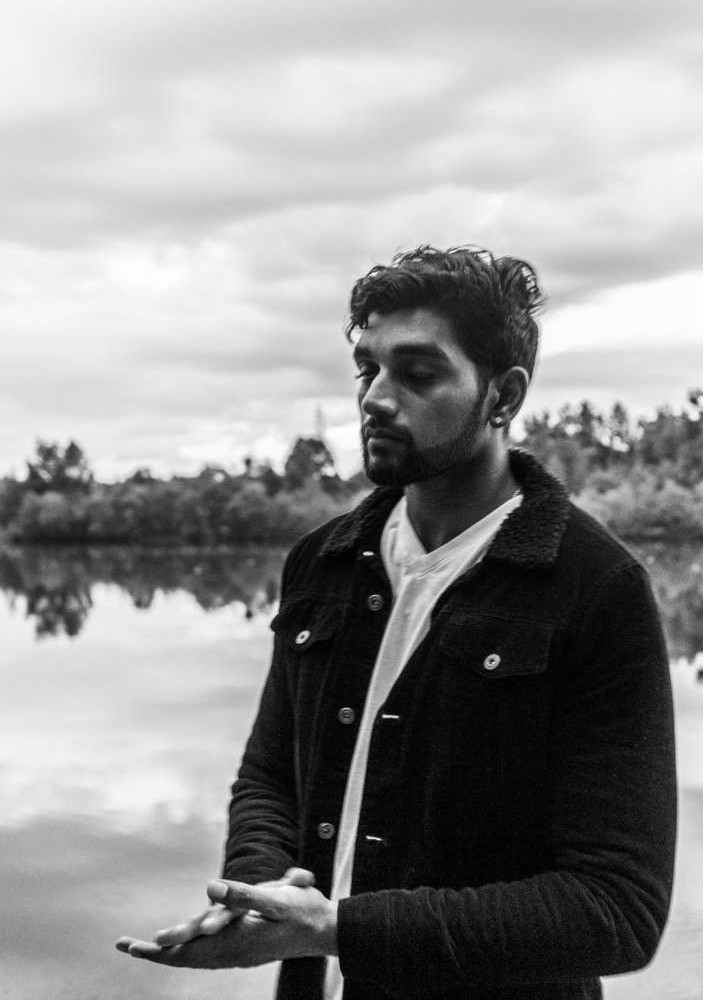
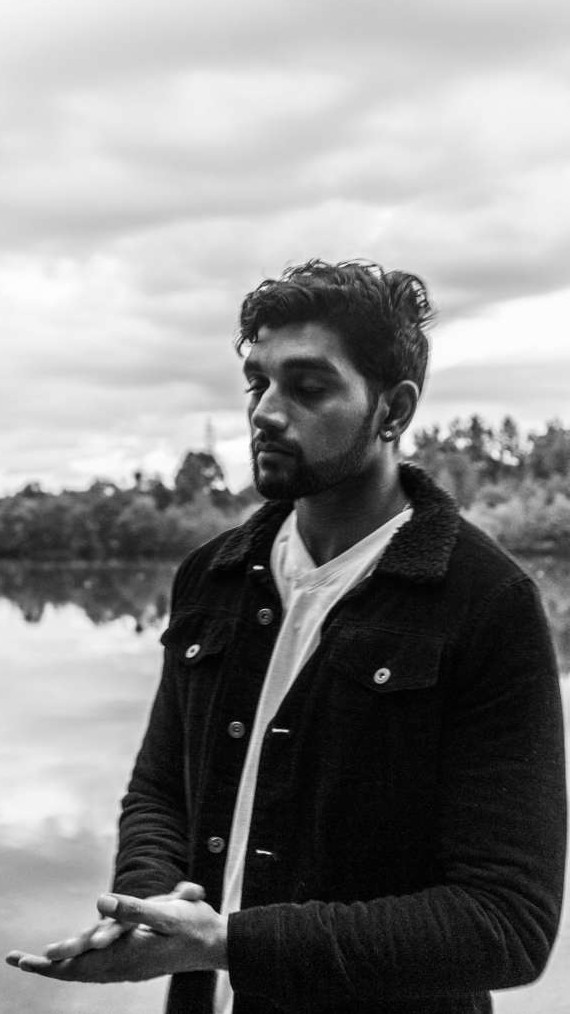
Make image extremely resizable

diff --git a/main.css b/main.css
@@ -1,3 +1,81 @@
-body {
-    background-color: lightgrey;
+* {
+    margin: 0;
+    padding: 0;
 }
+
+/* .background {
+        background-image: url('hero_image_landscape.jpg');
+        background-size: cover;
+        background-repeat: no-repeat;
+        height: 100vh;
+      
+} */
+@media (max-width: 299px) and (orientation:portrait) {
+    .background {
+        background-image: url('hero_image_portrait.jpg');
+        background-size: cover;
+        background-position: left;
+        background-repeat: no-repeat;
+        height: 100vh;
+      }
+
+} 
+
+
+@media (min-width: 300px) and (orientation:portrait){
+    .background {
+        background-image: url('hero_image_portrait.jpg');
+        background-size: cover;
+        background-position: left;
+        background-repeat: no-repeat;
+        height: 100vh;
+      }
+
+} 
+
+@media (min-width: 700px) and (orientation:portrait){
+    .background {
+        background-image: url('hero_image_tab.jpg');
+        background-size: cover;
+        background-position: left;
+        background-repeat: no-repeat;
+       
+      }
+
+}
+
+@media (max-width: 1179px) and (orientation:landscape) {
+    .background {
+        background-image: url('hero_image_landscape.jpg');
+        background-size: cover;
+        background-position: bottom;
+        background-repeat: no-repeat;
+        height: 100vh;
+      }
+
+}
+
+@media (min-width: 1180px) and (orientation:landscape) {
+    .background {
+        background-color: lightgray;
+        background-image: url('hero_image_landscape.jpg');
+        background-size: contain;
+        background-position: center;
+        background-repeat: no-repeat;
+        height: 100vh;
+      }
+
+}
+
+@media (min-width: 2000px)and (orientation:landscape) {
+    .background {
+        background-color: lightgray;
+        background-image: url('hero_image_landscape.jpg');
+        background-size: contain;
+        background-position: center;
+        background-repeat: no-repeat;
+
+      }
+
+}
+

diff --git a/index.html b/index.html
@@ -1,4 +1,4 @@
-!<!DOCTYPE html>
+<!DOCTYPE html>
 <html>
 <head>
     <meta charset="utf-8" />
@@ -9,6 +9,9 @@
     <script src="main.js"></script>
 </head>
 <body>
+    <div class="background">
+        
+    </div>
     
 </body>
 </html>
